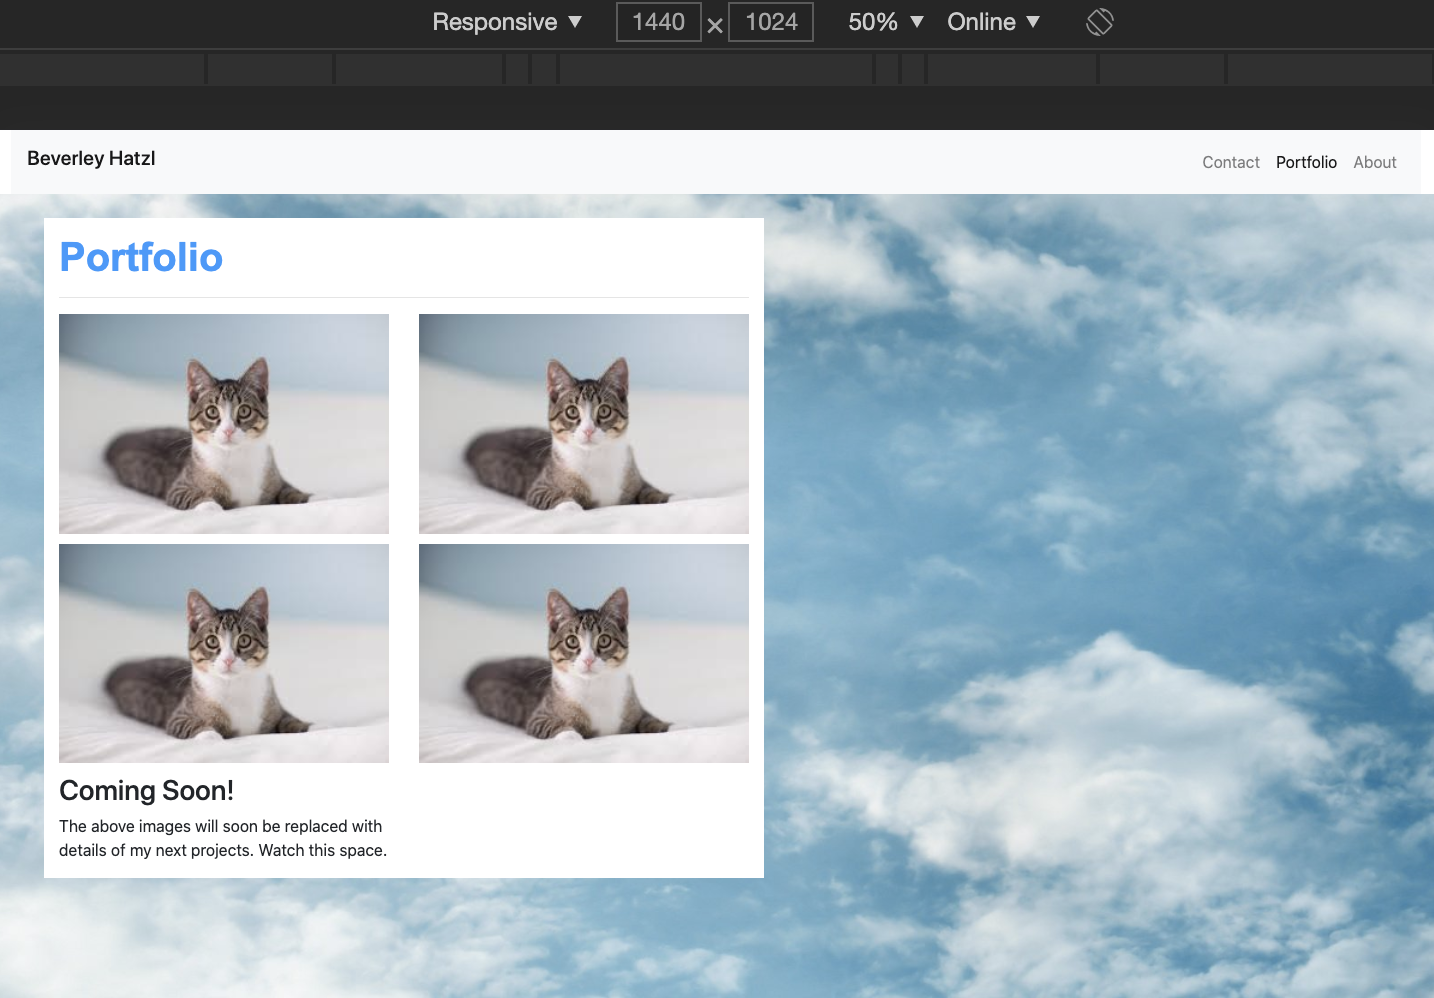
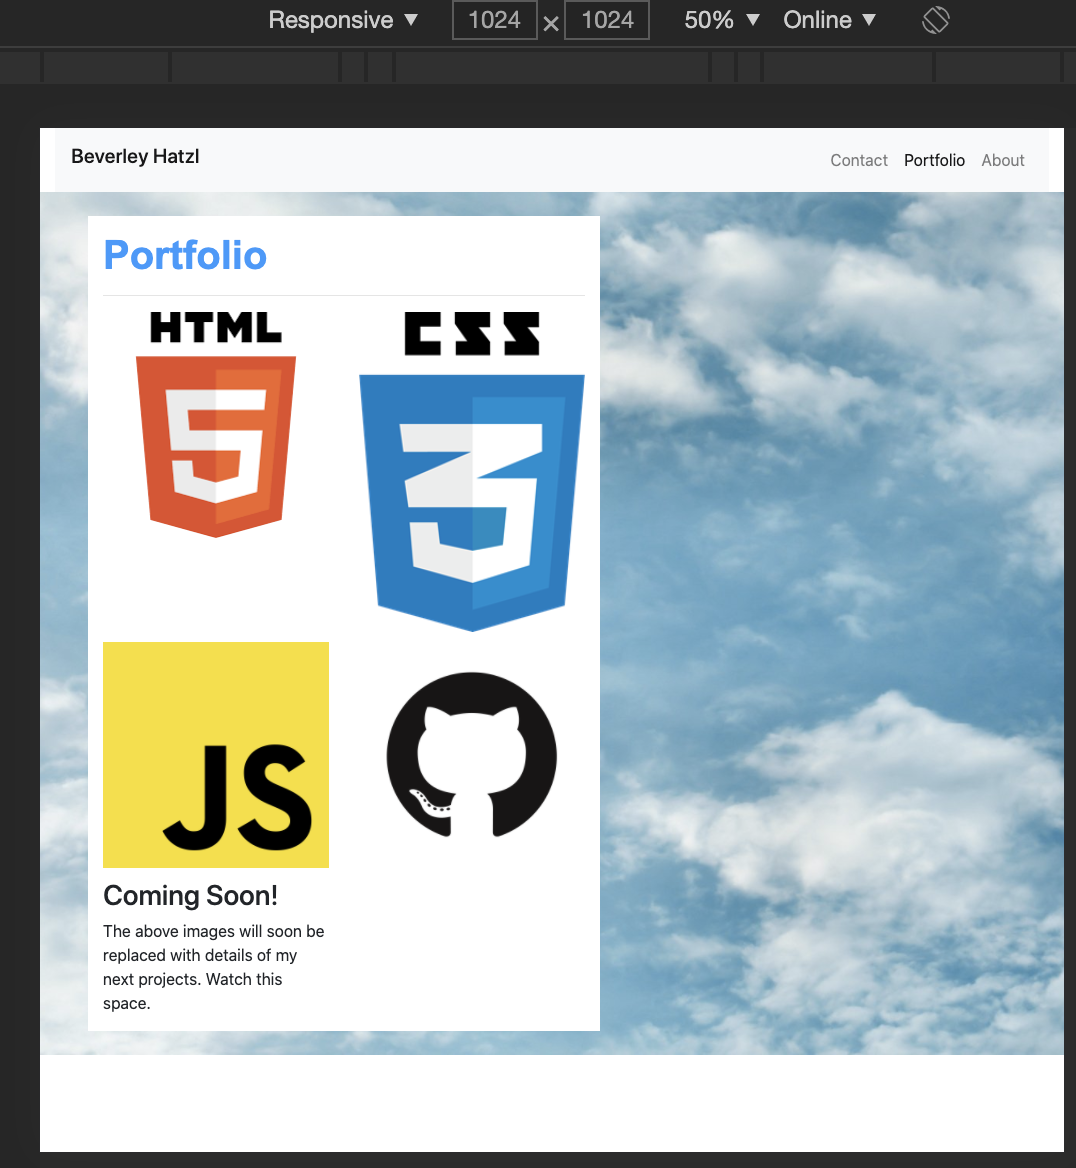
change images

diff --git a/portfolio.html b/portfolio.html
@@ -52,10 +52,10 @@
         <div class="container p-cont ml-5">
             <div class="row">  
                 <div class="col-sm-6"> 
-                    <img src="./cat.jpeg" class="port-pic img-fluid" alt="Cat pic">
+                    <img src="./html-logo.png" class="port-pic img-fluid" alt="Logo of html 5.">
                 </div>
                 <div class="col-sm-6">
-                    <img src="./cat.jpeg" class="port-pic img-fluid" alt="Cat pic">
+                    <img src="./css-logo.png" class="port-pic img-fluid" alt="Logo of CSS .3.">
                 </div>
             </div>
         </div>
@@ -63,10 +63,10 @@
         <div class="container p-cont ml-5">
             <div class="row">
                 <div class="col-sm-6"> 
-                    <img src="./cat.jpeg" class="port-pic img-fluid" alt="Cat pic">
+                    <img src="./JS-logo.png" class="port-pic img-fluid" alt="Logo of JS">
                 </div>
                 <div class="col-sm-6">
-                     <img src="./cat.jpeg" class="port-pic img-fluid" alt="Cat pic">
+                     <img src="./github-logo.png" class="port-pic img-fluid" alt="Logo of Github.">
                 </div>
             </div>
         </div>
